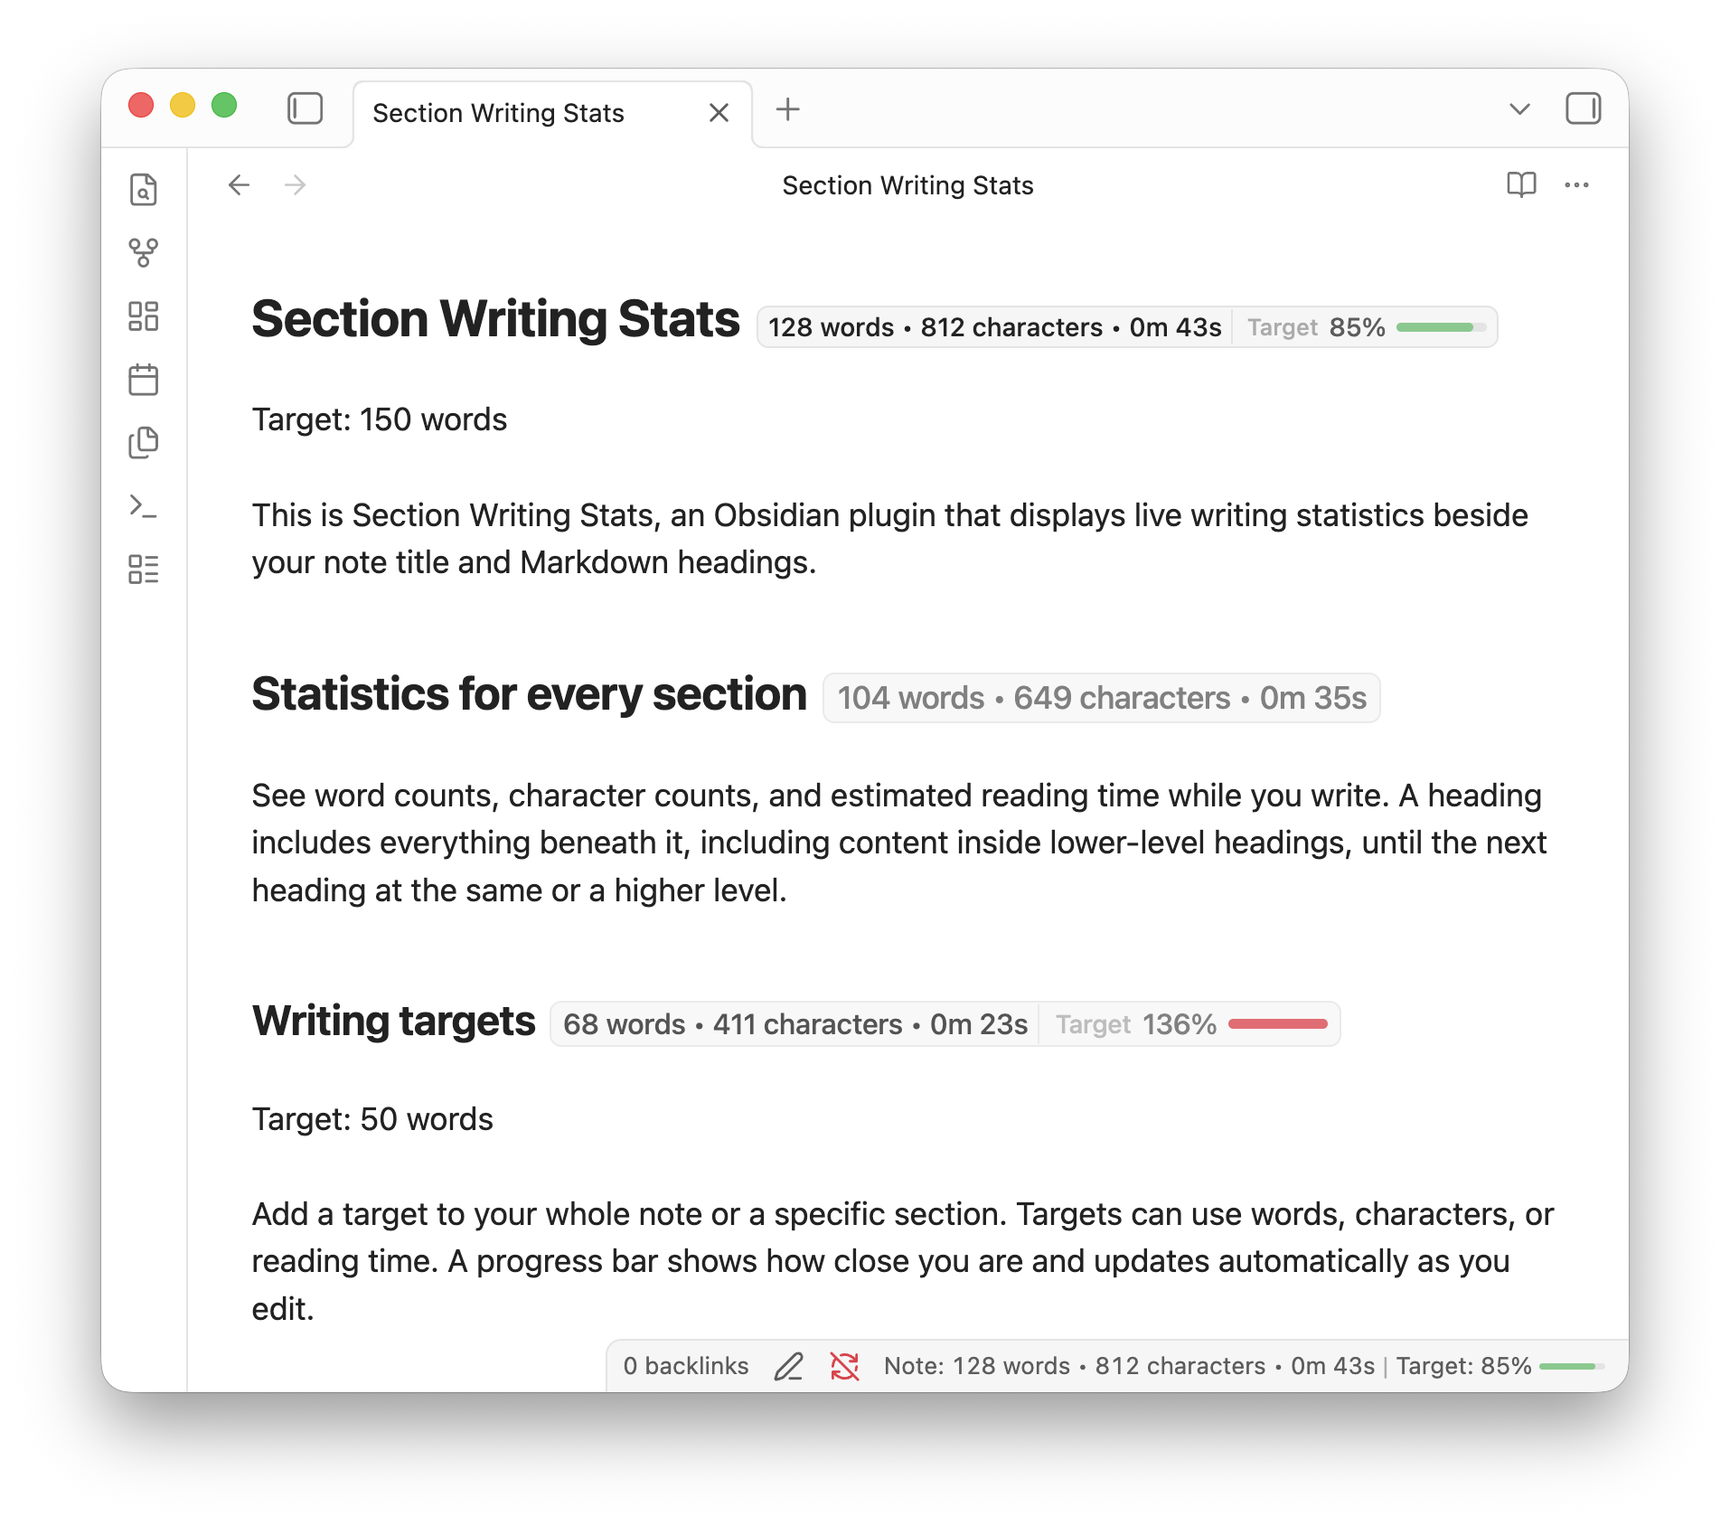
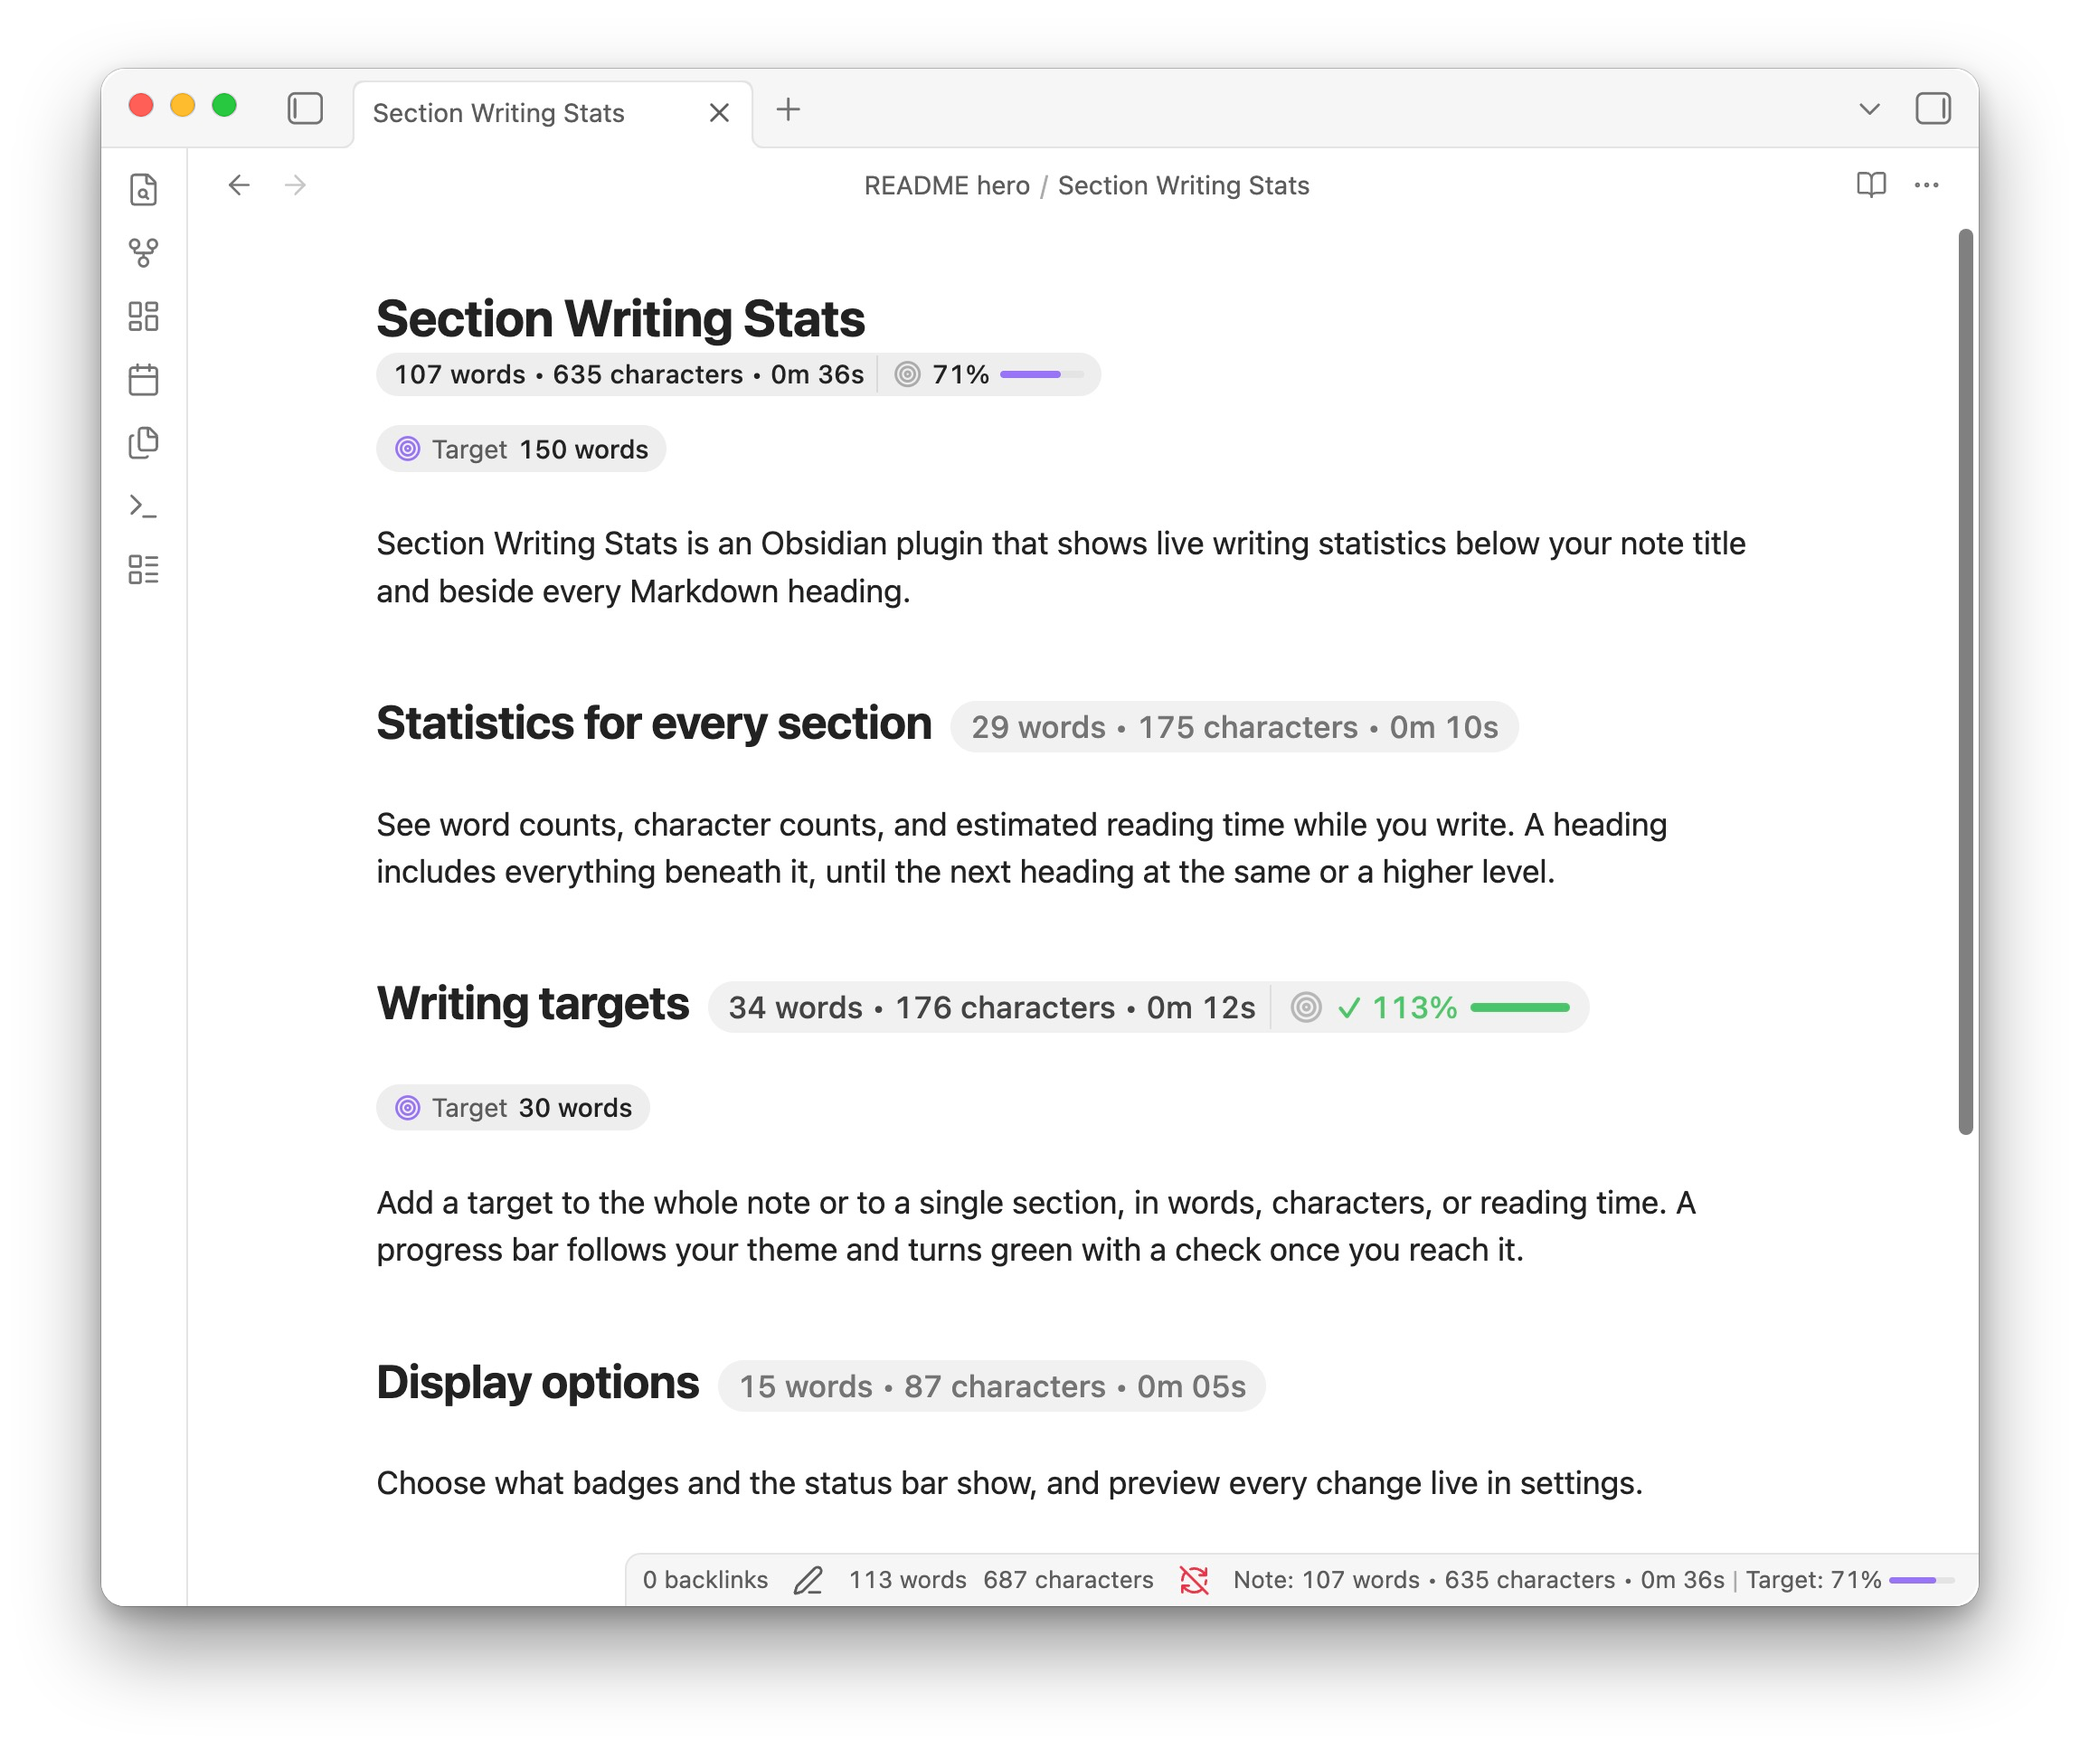
Refresh hero screenshot with the 1.5.0 design
Show target chips, accent and reached progress, and the new badge
style. Update the image's width and height to its new size.

diff --git a/index.html b/index.html
@@ -60,7 +60,7 @@
         <div class="hero-title reveal">
           <h1 class="hero-shout" aria-label="How much more do you need to write?"><span class="type-row" aria-hidden="true"><span class="type-word type-word-1">HOW</span></span><span class="type-row type-row-much" aria-hidden="true"><span class="type-word type-word-2 type-word-much">MUCH</span><span class="type-word type-word-3">MORE</span></span><span class="type-row" aria-hidden="true"><span class="type-word type-word-4">DO</span><span class="type-word type-word-5">YOU</span><span class="type-word type-word-6">NEED</span><span class="type-word type-word-7">TO</span></span><span class="type-row" aria-hidden="true"><span class="type-word type-word-write"><span class="write-line">WRIIIIIIIIIII</span><span class="write-line">IIIIIIIIITE??</span></span></span></h1>
           <figure class="hero-screenshot">
-            <img src="images/section-writing-stats-obsidian.png" width="1914" height="1688" fetchpriority="high" alt="Section Writing Stats showing heading badges, note statistics, and writing-target progress in Obsidian" />
+            <img src="images/section-writing-stats-obsidian.png" width="2300" height="1924" fetchpriority="high" alt="Section Writing Stats showing heading badges, note statistics, and writing-target progress in Obsidian" />
           </figure>
         </div>
         <div class="hero-copy reveal">
